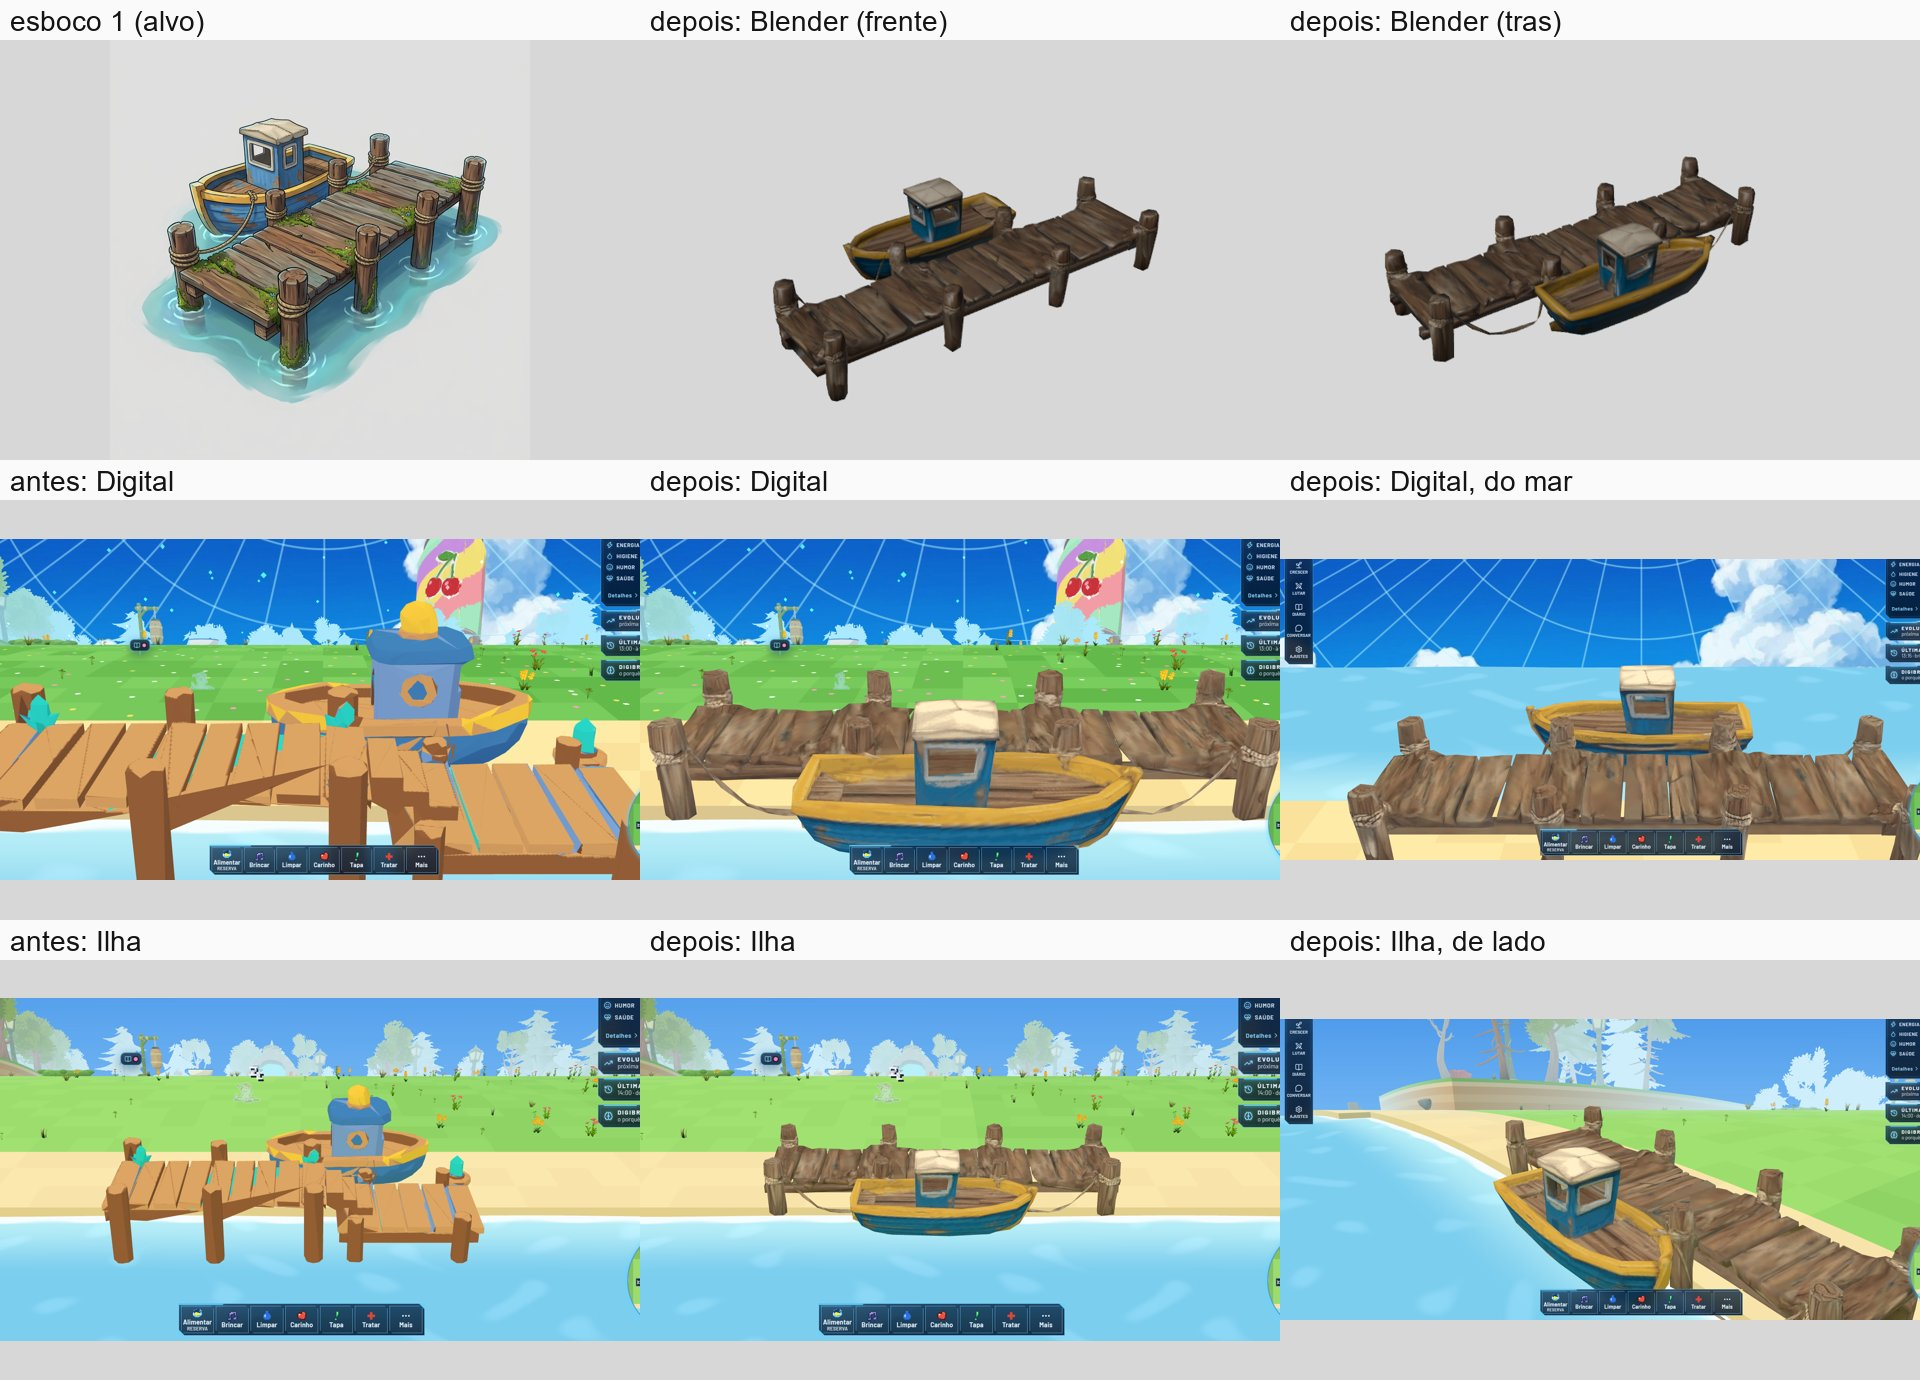
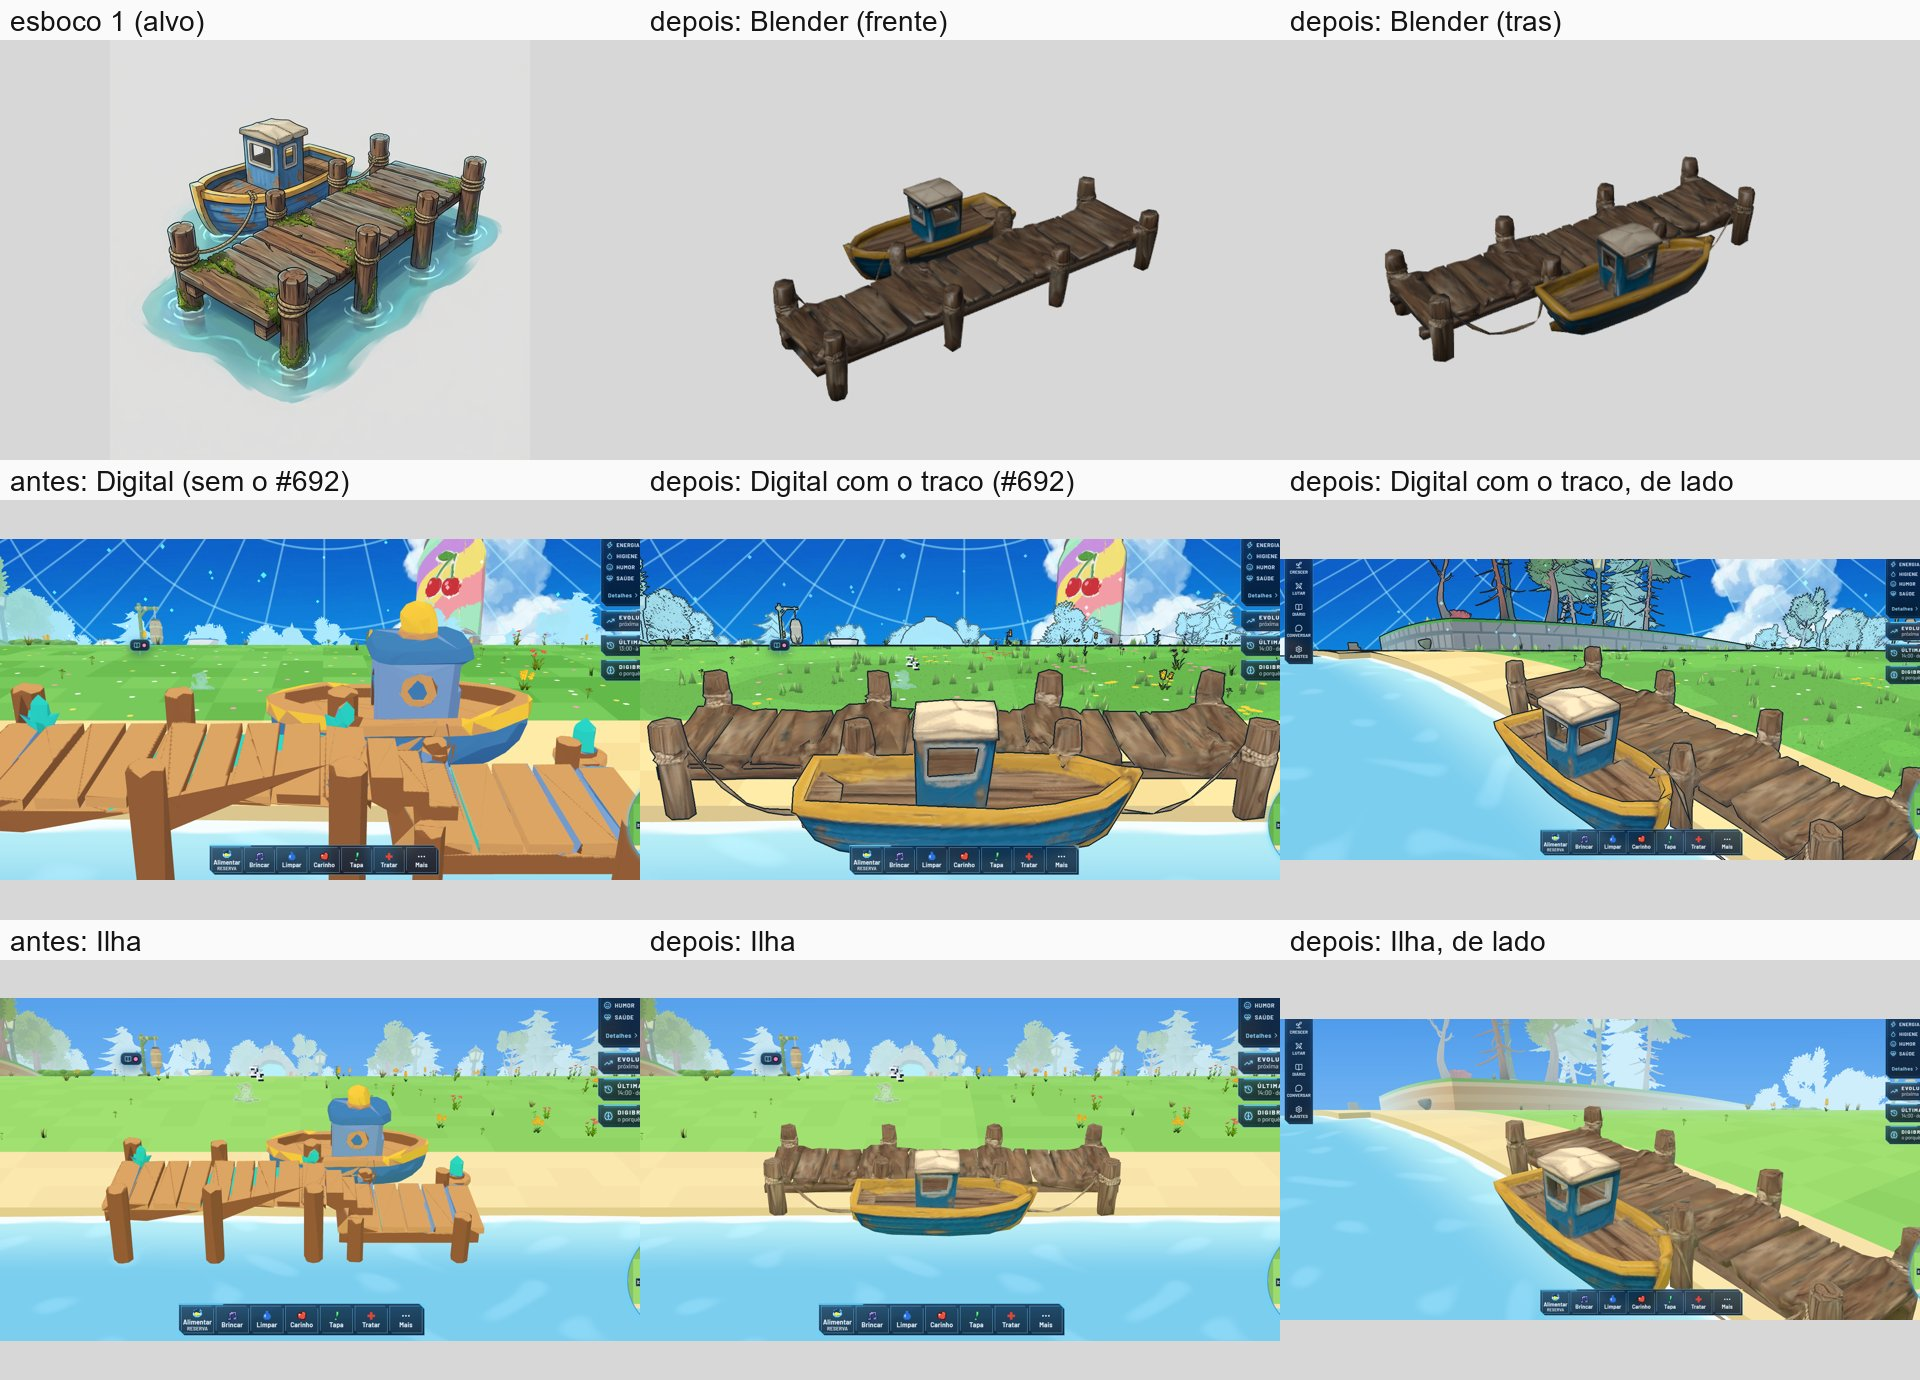
LUGARES_3D: a prancha do cais com o Digital do #692 (o traco de nanquim)

diff --git a/docs/TAREFA_V3_LUGARES_3D.md b/docs/TAREFA_V3_LUGARES_3D.md
@@ -228,10 +228,11 @@ enrolados em corda e o barquinho de pesca azul e amarelo com a cabine (`docs/obj
   64 cores), pela lista `TEXTURA_PINTADA` de `web/app/test/ilha_lugares.test.ts`, a mesma do portão (#713). Os gates G1 a G8 de
   `web/app/test/lugares3d.test.ts` ficam como estavam e passam.
 
-**As capturas** ficam fora do git, em `D:\Trab\digilab\capturas_objetos3d\cais\`: a prancha `prancha_cais_r2.png` (o esboço, as prévias do
-Blender, o antes e o depois no jogo nos mapas Digital e Ilha) e as imagens soltas `antes_*` e `depois_*`. Uma cópia da prancha está em
-`docs/objetos3d/cais/conserto/prancha.jpg`. As capturas no jogo usam a câmera de desenvolvimento (`?cameradev=1`, `__camera.ir("cais")`) num
-Vite próprio; o Digital da `main` ainda não tem o traço de nanquim (#692).
+**As capturas** ficam fora do git, em `D:\Trab\digilab\capturas_objetos3d\cais\`: a prancha `prancha_cais_final.png` (o esboço, as prévias do
+Blender, o antes e o depois no jogo nos mapas Digital e Ilha; o depois do Digital já com o traço de nanquim do #692, mesclado na `main`
+durante o trabalho) e as imagens soltas `antes_*`, `depois_*` (antes da mescla) e `depois_d5_*` (depois dela). Uma cópia da prancha está
+em `docs/objetos3d/cais/conserto/prancha.jpg`. As capturas no jogo usam a câmera de desenvolvimento (`?cameradev=1`, `__camera.ir("cais")`)
+num Vite próprio.
 
 **O revisor** (um subagente que não fez o trabalho) deu dois pareceres:
 1. **APROVA COM RESSALVA:** a madeira escura e lisa demais, a corda sem o bege, a corda de amarração como fita, o píer na areia sem água,
